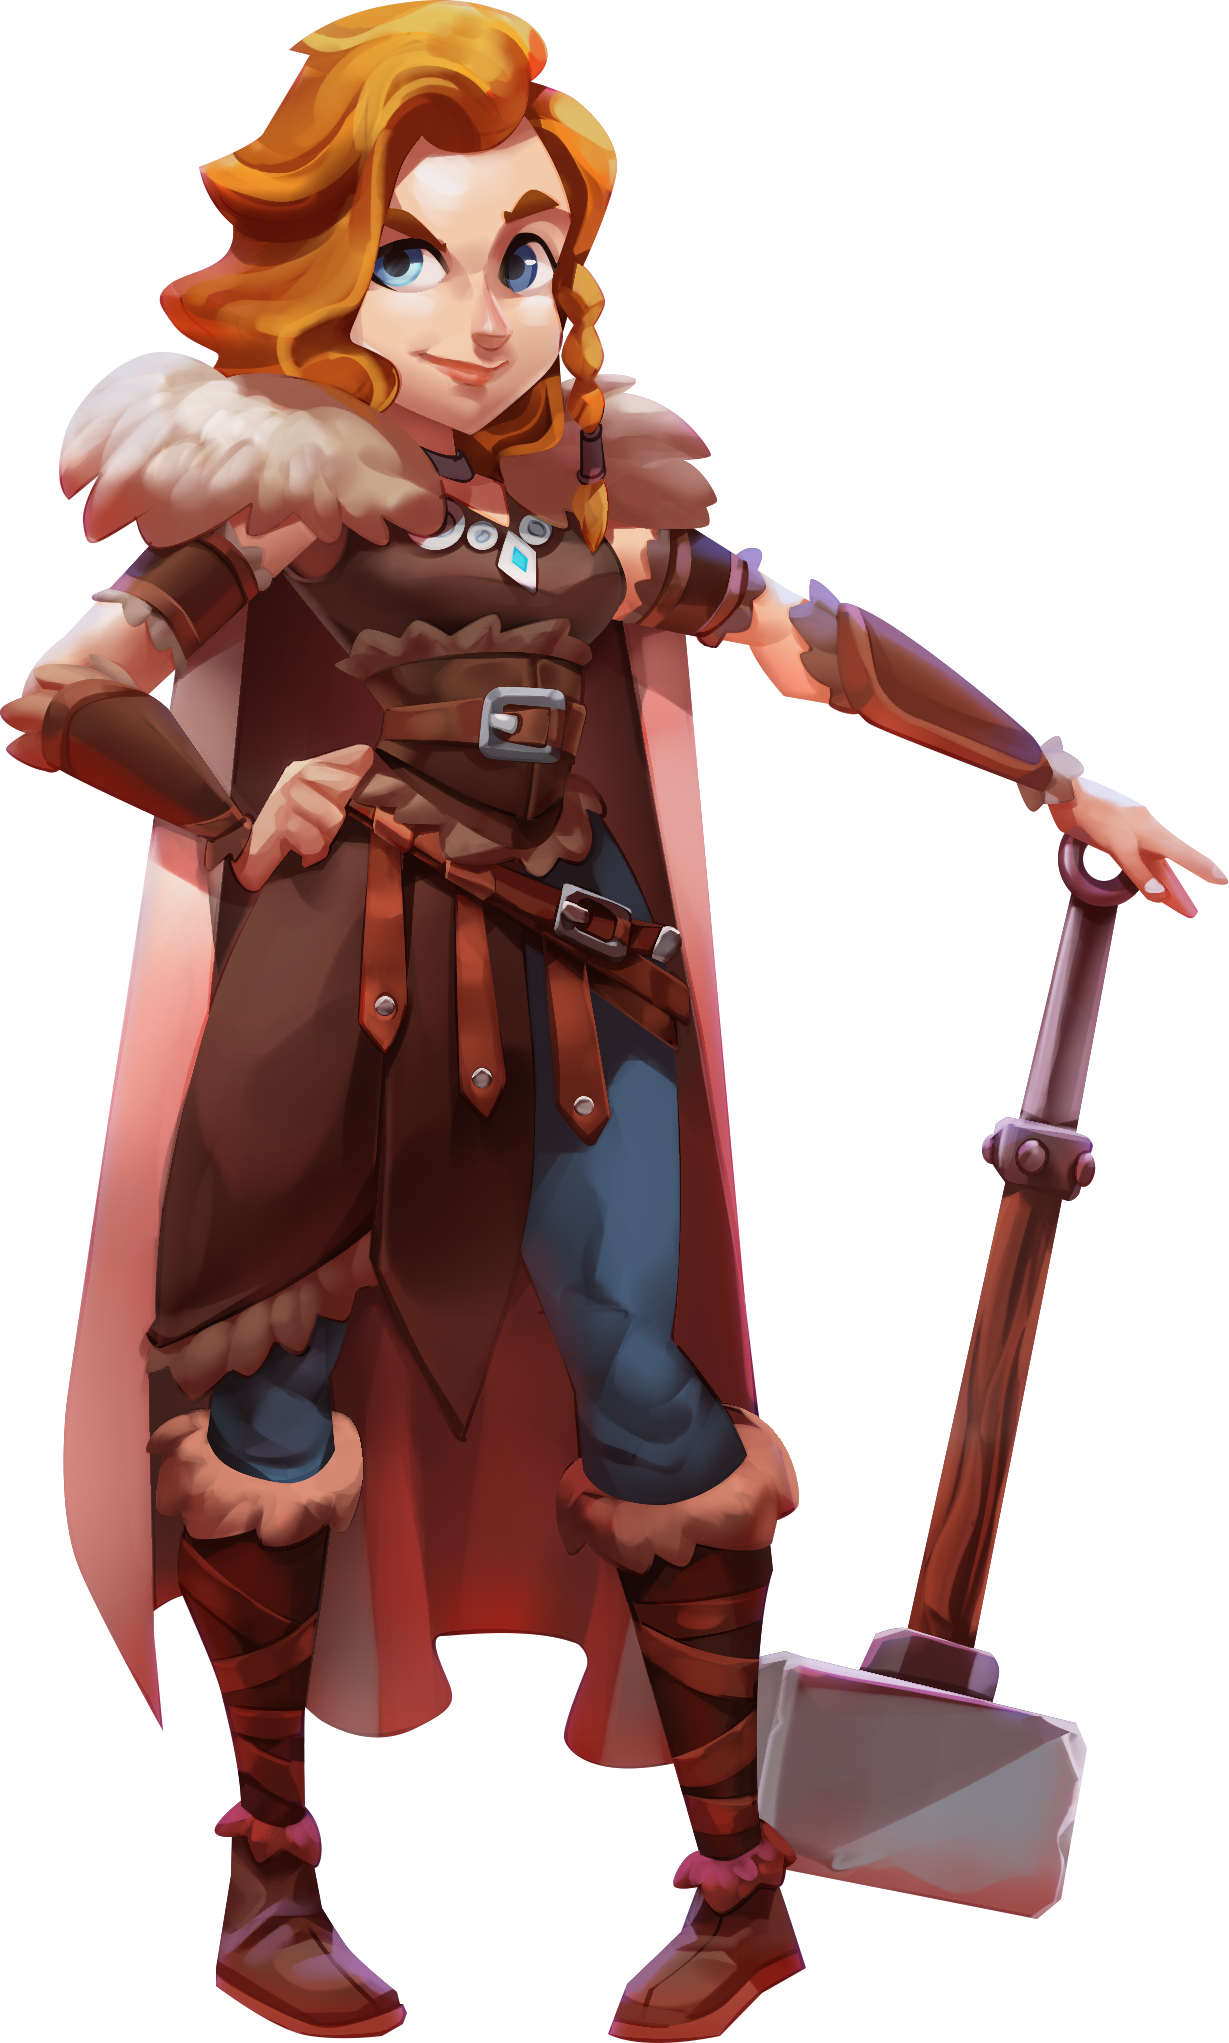
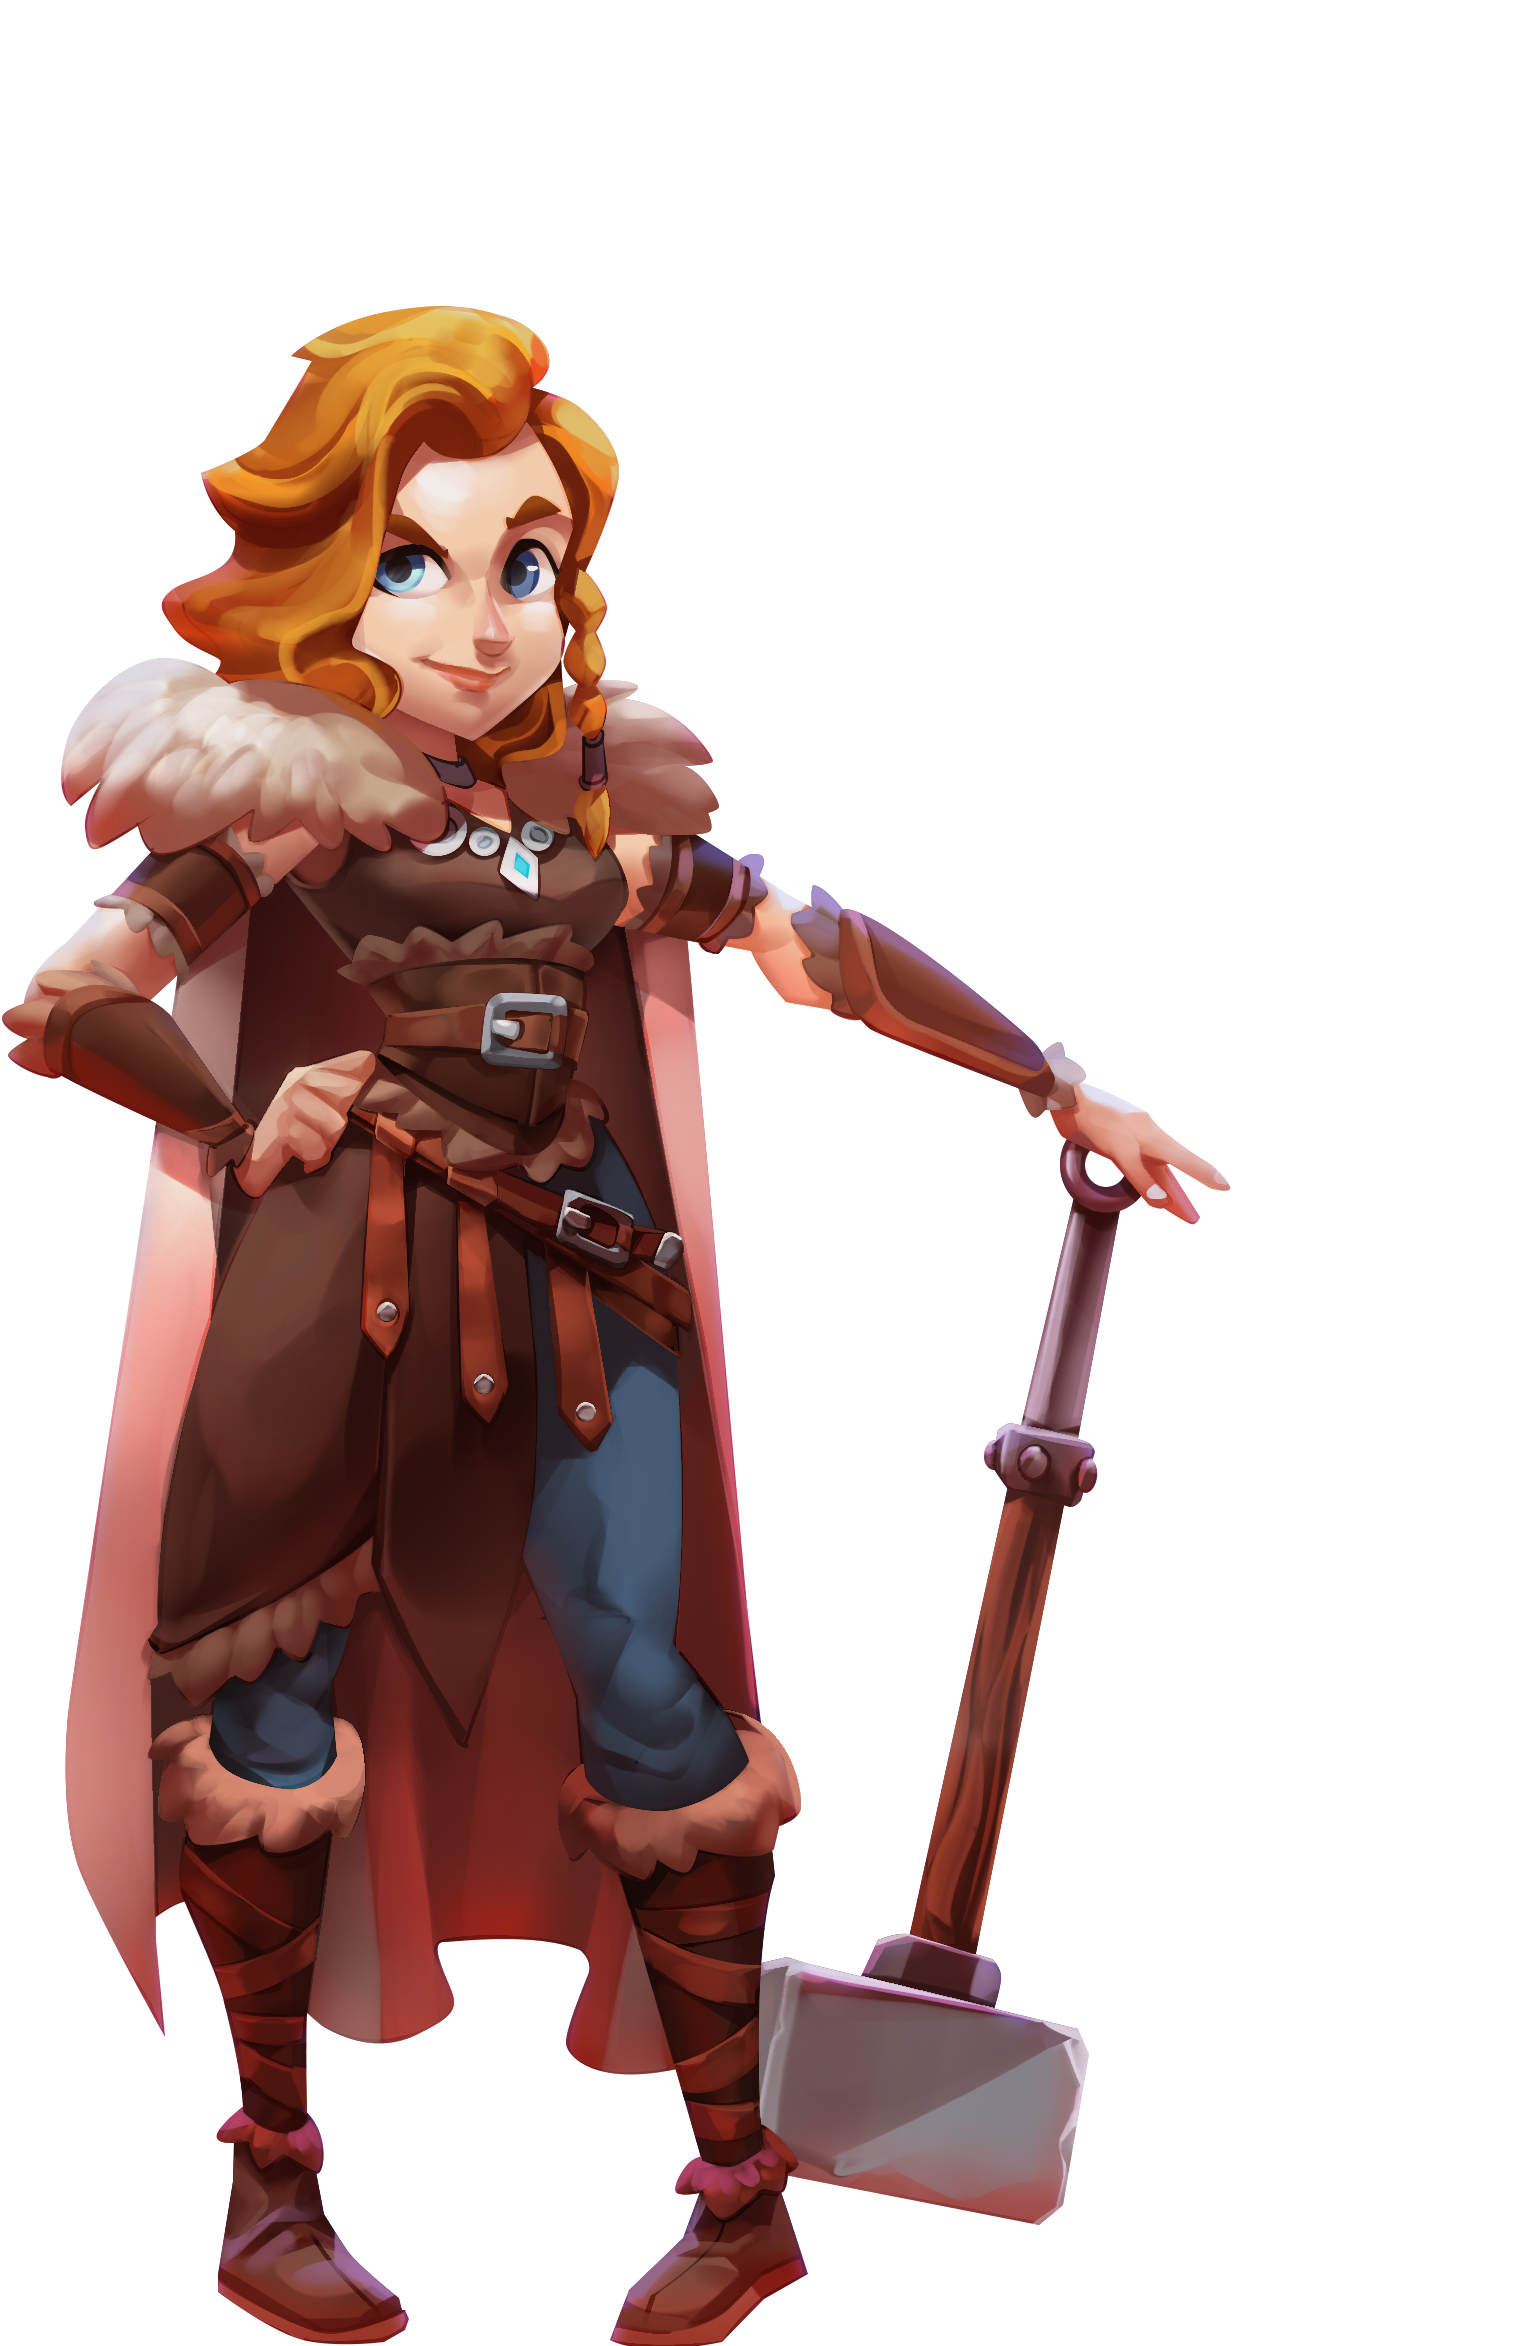
Variables in sizing

diff --git a/src/Components/App/Title/Title.scss b/src/Components/App/Title/Title.scss
@@ -37,16 +37,22 @@
     align-items: center;
   }
 
+  $min-width: 690px;
+  $max-width: 870px;
+  $width: 60vw;
+  $max-height: 100%;
+  $vert-offset: 160px;
+
   #sigrid {
     background-color: green;
     grid-column: sigrid-area / span 1;
     grid-row: 1 / span 2;
 
     img {
-      min-width: 550px;
-      width: 60vw;
-      max-width: 726.6px;
-      transform: translate(-100px, 28vh);
+      min-width: $min-width;
+      width: $width;
+      max-width: $max-width;
+      transform: translate(-100px, $vert-offset );
 
       z-index: 3;
       position: absolute;
@@ -61,10 +67,10 @@
     grid-row: 1 / span 2;
 
     img {
-      min-width: 690px;
-      width: 60vw;
-      max-width: 870px;
-      transform: translate(150px, 350px);
+      min-width: $min-width;
+      width: $width;
+      max-width: $max-width;
+      transform: translate(160px, $vert-offset);
 
       z-index: 2;
       position: absolute;
